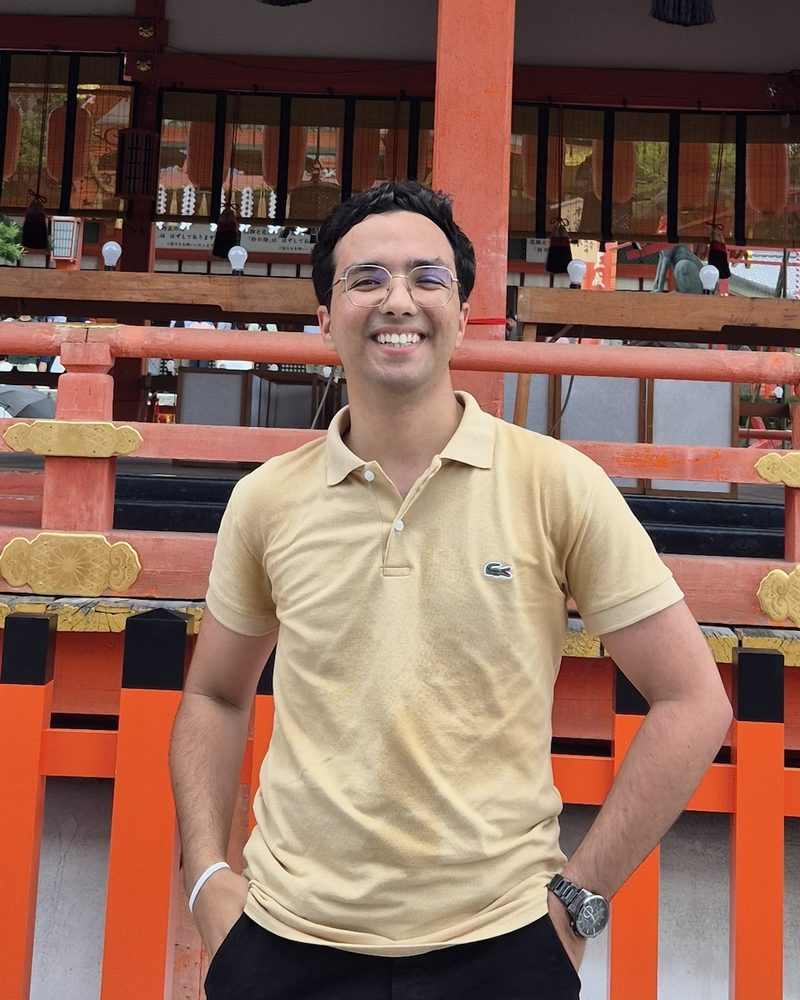
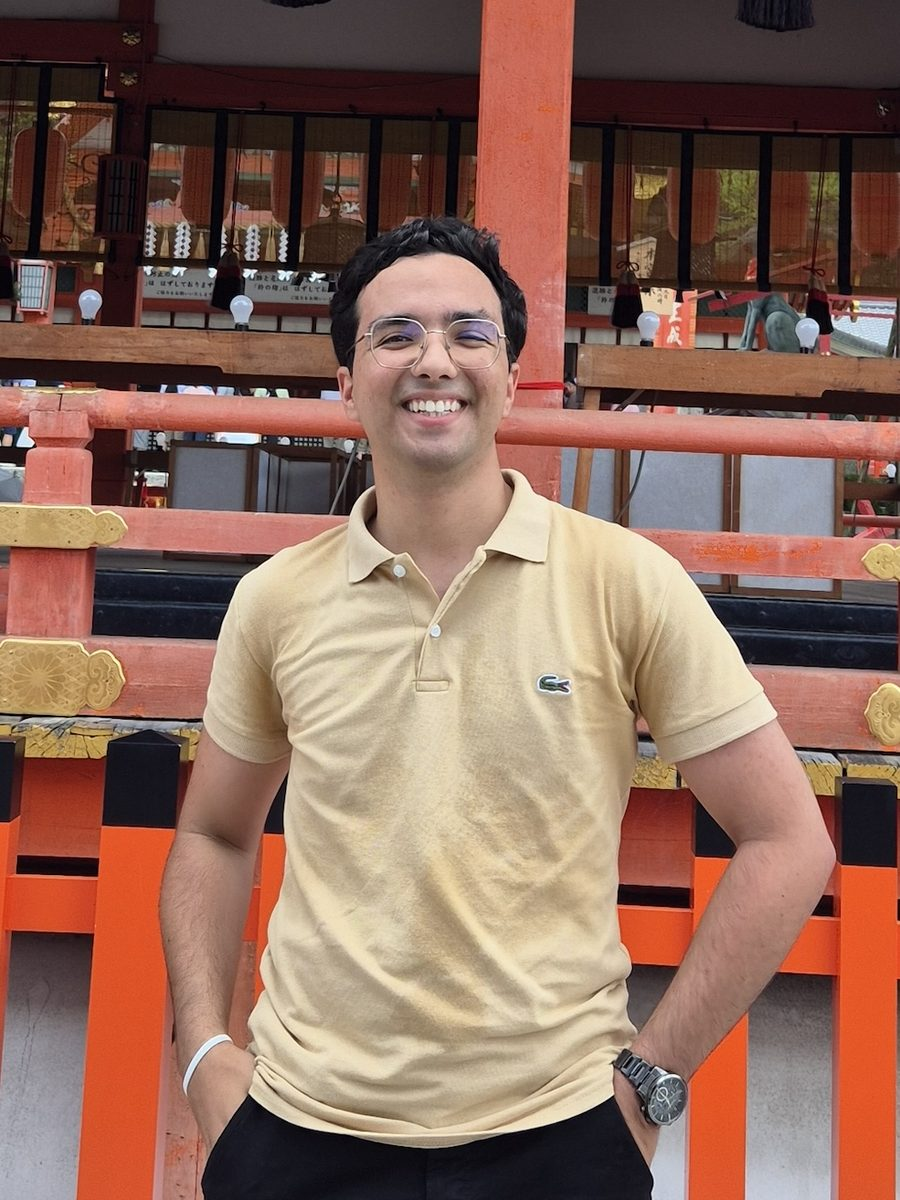
Restyle portrait, add interests ticker, update pitch roles
Portrait gets an arch frame, offset outline, rotating badge and pointer
tilt, in color. Ticker now lists interests. Pitch cards state each role,
major reads Astrophysics, LinkedIn filled in. Fix the cursor picking up
card styles on hover by renaming its state classes.

Claude-Session: https://claude.ai/code/session_01HdyVoENXhRtyn1pYEz9Wqw

diff --git a/index.html b/index.html
@@ -4,11 +4,11 @@
 <meta charset="utf-8">
 <meta name="viewport" content="width=device-width, initial-scale=1">
 <title>Ahmed Turki</title>
-<meta name="description" content="Ahmed Turki, University of Pennsylvania '29, Mathematical Economics and Physics. Stock pitches and physics research.">
+<meta name="description" content="Ahmed Turki, University of Pennsylvania '29, Mathematical Economics and Astrophysics. Stock pitches and astrophysics research.">
 <meta name="theme-color" content="#0C0D0F">
 <meta property="og:type" content="website">
 <meta property="og:title" content="Ahmed Turki">
-<meta property="og:description" content="University of Pennsylvania '29, Mathematical Economics and Physics. Stock pitches and physics research.">
+<meta property="og:description" content="University of Pennsylvania '29, Mathematical Economics and Astrophysics. Stock pitches and astrophysics research.">
 <meta name="twitter:card" content="summary">
 <link rel="icon" href="assets/favicon.svg" type="image/svg+xml">
 <link rel="preconnect" href="https://fonts.googleapis.com">
@@ -86,22 +86,45 @@ a:focus-visible { outline: 2px solid var(--accent); outline-offset: 3px; border-
 .hero h1 .ch { display: inline-block; transform: translateY(110%); }
 .ready .hero h1 .ch { transform: none; transition: transform 1.1s var(--ease); transition-delay: calc(var(--i) * 40ms); }
 
-/* portrait */
+/* portrait: arch frame, offset outline, rotating badge, pointer tilt */
 .portrait {
-  grid-column: 2; grid-row: 1; align-self: end;
-  width: clamp(180px, 22vw, 320px); aspect-ratio: 4 / 5;
-  margin: 0; position: relative; overflow: hidden; border-radius: 4px;
+  grid-column: 2; grid-row: 1; align-self: end; justify-self: end;
+  width: clamp(200px, 25vw, 360px); aspect-ratio: 3 / 4;
+  margin: 0 14px 14px 0; position: relative;
+  perspective: 900px;
+  clip-path: inset(100% -40% -40% -40%);
+}
+.ready .portrait { clip-path: inset(-40% -40% -40% -40%); transition: clip-path 1.4s var(--ease) .35s; }
+.portrait .frame {
+  position: absolute; inset: 0; border-radius: 999px 999px 10px 10px; overflow: hidden;
   background: #16181B;
-  clip-path: inset(100% 0 0 0);
+  transform: rotateX(var(--rx, 0deg)) rotateY(var(--ry, 0deg));
+  transition: transform .6s var(--ease);
+  box-shadow: 0 30px 80px -30px rgba(0,0,0,.8);
 }
-.ready .portrait { clip-path: inset(0 0 0 0); transition: clip-path 1.3s var(--ease) .35s; }
-.portrait img { position: absolute; inset: 0; width: 100%; height: 100%; object-fit: cover; filter: grayscale(1) contrast(1.05); transition: filter .8s var(--ease), transform 1.2s var(--ease); transform: scale(1.04); }
-.portrait:hover img { filter: grayscale(0); transform: scale(1); }
-.portrait .empty {
-  position: absolute; inset: 0; display: grid; place-items: center; text-align: center;
-  font: 400 12px/1.5 var(--mono); color: var(--ph); letter-spacing: .04em;
-  border: 1px dashed #4A3F1E; border-radius: 4px;
+.portrait::before {
+  content: ""; position: absolute; inset: 0; border-radius: 999px 999px 10px 10px;
+  border: 1px solid var(--accent); opacity: .55;
+  transform: translate(14px, 14px); transition: transform .8s var(--ease), opacity .4s;
 }
+.portrait:hover::before { transform: translate(20px, 20px); opacity: .9; }
+.portrait img {
+  position: absolute; inset: 0; width: 100%; height: 100%; object-fit: cover; object-position: 50% 30%;
+  filter: saturate(.9) contrast(1.04); transform: scale(1.06);
+  transition: transform 1.4s var(--ease), filter .8s var(--ease);
+}
+.portrait:hover img { transform: scale(1.0); filter: saturate(1.05) contrast(1.04); }
+/* soft warm vignette so the photo sits in the dark page */
+.portrait .frame::after { content: ""; position: absolute; inset: 0; background: radial-gradient(120% 90% at 50% 30%, rgba(0,0,0,0) 55%, rgba(12,13,15,.55) 100%); pointer-events: none; }
+.badge {
+  position: absolute; left: -46px; bottom: 22px; width: 112px; height: 112px; z-index: 2;
+  color: var(--ink); pointer-events: none;
+}
+.badge svg { width: 100%; height: 100%; animation: spin 22s linear infinite; }
+.badge text { font: 500 8.4px var(--mono); letter-spacing: .12em; text-transform: uppercase; fill: currentColor; }
+.badge::after { content: ""; position: absolute; left: 50%; top: 50%; width: 12px; height: 12px; margin: -6px 0 0 -6px; background: var(--accent); border-radius: 50%; box-shadow: 0 0 18px var(--accent); }
+.badge .disc { position: absolute; inset: 0; border-radius: 50%; background: rgba(12,13,15,.72); backdrop-filter: blur(6px); z-index: -1; border: 1px solid var(--rule); }
+@keyframes spin { to { transform: rotate(360deg); } }
 
 .hero-foot {
   grid-column: 1 / 3;
@@ -124,6 +147,10 @@ a:focus-visible { outline: 2px solid var(--accent); outline-offset: 3px; border-
 .marquee span { font: 500 13px/1 var(--mono); letter-spacing: .06em; text-transform: uppercase; color: var(--ink-2); padding-right: 48px; white-space: nowrap; }
 .marquee b { color: var(--ink); font-weight: 500; }
 .marquee .dot { color: var(--accent); font-style: normal; }
+.marquee { display: flex; align-items: center; }
+.marquee .track { flex: none; }
+.marquee .mq-k { flex: none; position: relative; z-index: 1; align-self: stretch; display: flex; align-items: center; padding: 0 22px 0 var(--pad); margin: -14px 0; background: var(--bg); border-right: 1px solid var(--rule); color: var(--accent); font: 500 11px/1 var(--mono); letter-spacing: .1em; text-transform: uppercase; box-shadow: 24px 0 24px -8px var(--bg); }
+.marquee .track span { color: var(--ink); }
 @keyframes slide { to { transform: translateX(-50%); } }
 
 /* ---------- sections ---------- */
@@ -228,11 +255,11 @@ footer .btn { background: transparent; border-color: var(--rule); }
 .js .rv.in { opacity: 1; transform: none; }
 
 /* ---------- cursor ---------- */
-.cursor { position: fixed; left: 0; top: 0; z-index: 60; pointer-events: none; width: 0; height: 0; mix-blend-mode: difference; opacity: 0; transition: opacity .3s; }
-.cursor i { position: absolute; left: 0; top: 0; width: 10px; height: 10px; margin: -5px 0 0 -5px; border-radius: 50%; background: #fff; transition: width .35s var(--ease), height .35s var(--ease), margin .35s var(--ease); }
+.cursor { position: fixed; left: 0; top: 0; z-index: 60; pointer-events: none; width: 0; height: 0; opacity: 0; transition: opacity .3s; }
+.cursor i { position: absolute; left: 0; top: 0; width: 10px; height: 10px; margin: -5px 0 0 -5px; border-radius: 50%; background: var(--accent); box-shadow: 0 0 0 1px rgba(12,13,15,.35); transition: width .35s var(--ease), height .35s var(--ease), margin .35s var(--ease), background .35s; }
 .cursor.on { opacity: 1; }
-.cursor.link i { width: 36px; height: 36px; margin: -18px 0 0 -18px; }
-.cursor.card i { width: 22px; height: 22px; margin: -11px 0 0 -11px; }
+.cursor.is-link i { width: 40px; height: 40px; margin: -20px 0 0 -20px; background: rgba(217,255,91,.18); box-shadow: inset 0 0 0 1.5px var(--accent); }
+.cursor.is-card i { width: 16px; height: 16px; margin: -8px 0 0 -8px; }
 @media (hover: none), (pointer: coarse) { .cursor { display: none; } }
 
 /* ---------- responsive ---------- */
@@ -242,7 +269,8 @@ footer .btn { background: transparent; border-color: var(--rule); }
 }
 @media (max-width: 700px) {
   .hero { grid-template-columns: 1fr; grid-template-rows: auto auto auto; align-content: end; }
-  .portrait { grid-column: 1; grid-row: 1; width: 46vw; max-width: 220px; margin-bottom: 28px; }
+  .portrait { grid-column: 1; grid-row: 1; justify-self: start; width: 52vw; max-width: 240px; margin: 0 0 36px 46px; }
+  .badge { width: 88px; height: 88px; left: -44px; bottom: 14px; }
   .hero h1 { grid-row: 2; }
   .hero-foot { grid-column: 1; }
   .scroll-cue { display: none; }
@@ -264,6 +292,7 @@ footer .btn { background: transparent; border-color: var(--rule); }
   *, *::before, *::after { animation: none !important; transition: none !important; }
   .hero h1 .ch { transform: none; }
   .portrait { clip-path: none; }
+  .badge svg { animation: none; }
   .hero-foot, .js .rv { opacity: 1; transform: none; }
 }
 
@@ -274,6 +303,7 @@ footer .btn { background: transparent; border-color: var(--rule); }
   .hero h1 { font-size: 56px; }
   .hero h1 .ch, .hero-foot, .js .rv { transform: none !important; opacity: 1 !important; }
   .portrait { clip-path: none !important; }
+  .badge, .portrait::before { display: none; }
   .card { aspect-ratio: auto !important; border: 1px solid #bbb; color: #000; background: #fff !important; break-inside: avoid; }
   .card::before { display: none; }
   .card .top, .card .tk, .card .sub, .btn { color: #000; }
@@ -308,26 +338,46 @@ footer .btn { background: transparent; border-color: var(--rule); }
       <span class="line" aria-hidden="true" data-split>Turki</span>
     </h1>
     <figure class="portrait">
-      <img src="assets/photo.jpg" alt="Ahmed Turki" width="800" height="1000">
+      <div class="frame"><img src="assets/photo.jpg" alt="Ahmed Turki" width="900" height="1200"></div>
+      <div class="badge" aria-hidden="true">
+        <span class="disc"></span>
+        <svg viewBox="0 0 100 100"><defs><path id="circ" d="M50,50 m-38,0 a38,38 0 1,1 76,0 a38,38 0 1,1 -76,0"/></defs>
+          <text><textPath href="#circ" textLength="236" lengthAdjust="spacing">Penn '29 · Astrophysics · Math Econ · </textPath></text></svg>
+      </div>
     </figure>
     <div class="hero-foot">
-      <p><span class="k">Education</span>University of Pennsylvania '29<br>Mathematical Economics and Physics</p>
+      <p><span class="k">Education</span>University of Pennsylvania '29<br>Mathematical Economics and Astrophysics</p>
       <div class="scroll-cue" aria-hidden="true">Scroll<i></i></div>
     </div>
   </section>
 
-  <div class="marquee" aria-hidden="true">
+  <div class="marquee" aria-label="Interests: tennis, camping, traveling, philosophy">
+    <span class="mq-k">Off the clock</span>
     <div class="track">
-      <span><b>Mathematical Economics</b> <i class="dot">●</i></span>
-      <span><b>Physics</b> <i class="dot">●</i></span>
-      <span>Stock pitches <i class="dot">●</i></span>
-      <span>Research <i class="dot">●</i></span>
-      <span><b>Penn '29</b> <i class="dot">●</i></span>
-      <span><b>Mathematical Economics</b> <i class="dot">●</i></span>
-      <span><b>Physics</b> <i class="dot">●</i></span>
-      <span>Stock pitches <i class="dot">●</i></span>
-      <span>Research <i class="dot">●</i></span>
-      <span><b>Penn '29</b> <i class="dot">●</i></span>
+      <span>Tennis <i class="dot">●</i></span>
+      <span>Camping <i class="dot">●</i></span>
+      <span>Traveling <i class="dot">●</i></span>
+      <span>Philosophy <i class="dot">●</i></span>
+      <span>Tennis <i class="dot">●</i></span>
+      <span>Camping <i class="dot">●</i></span>
+      <span>Traveling <i class="dot">●</i></span>
+      <span>Philosophy <i class="dot">●</i></span>
+      <span>Tennis <i class="dot">●</i></span>
+      <span>Camping <i class="dot">●</i></span>
+      <span>Traveling <i class="dot">●</i></span>
+      <span>Philosophy <i class="dot">●</i></span>
+      <span>Tennis <i class="dot">●</i></span>
+      <span>Camping <i class="dot">●</i></span>
+      <span>Traveling <i class="dot">●</i></span>
+      <span>Philosophy <i class="dot">●</i></span>
+      <span>Tennis <i class="dot">●</i></span>
+      <span>Camping <i class="dot">●</i></span>
+      <span>Traveling <i class="dot">●</i></span>
+      <span>Philosophy <i class="dot">●</i></span>
+      <span>Tennis <i class="dot">●</i></span>
+      <span>Camping <i class="dot">●</i></span>
+      <span>Traveling <i class="dot">●</i></span>
+      <span>Philosophy <i class="dot">●</i></span>
     </div>
   </div>
 
@@ -346,7 +396,7 @@ footer .btn { background: transparent; border-color: var(--rule); }
         <div>
           <p class="tk">NASDAQ: CPRT</p>
           <h3>Copart, Inc.</h3>
-          <p class="sub">Team pitch, Citadel stock pitch competition. I built the valuation model.</p>
+          <p class="sub">Team pitch, Citadel stock pitch competition. I co-built the valuation model and wrote the first thesis.</p>
           <ul class="links">
             <li><a class="btn solid" href="assets/CPRT_Memo.pdf" target="_blank" rel="noopener">Memo <span class="ft">PDF</span><svg aria-hidden="true"><use href="#i-ext"/></svg></a></li>
           </ul>
@@ -359,6 +409,7 @@ footer .btn { background: transparent; border-color: var(--rule); }
         <div>
           <p class="tk">NASDAQ: FTAI</p>
           <h3>FTAI Aviation Ltd.</h3>
+          <p class="sub">Team pitch. I built the model and led the industry and business research.</p>
           <ul class="links">
             <li><a class="btn solid" href="assets/FTAI_Memo.pdf" target="_blank" rel="noopener">Memo <span class="ft">PDF</span><svg aria-hidden="true"><use href="#i-ext"/></svg></a></li>
           </ul>
@@ -371,6 +422,7 @@ footer .btn { background: transparent; border-color: var(--rule); }
         <div>
           <p class="tk">TSE: 3436</p>
           <h3>SUMCO Corporation</h3>
+          <p class="sub">Solo pitch.</p>
           <!-- When the SUMCO memo is uploaded as assets/SUMCO_Memo.pdf, uncomment this:
           <ul class="links">
             <li><a class="btn solid" href="assets/SUMCO_Memo.pdf" target="_blank" rel="noopener">Memo <span class="ft">PDF</span><svg aria-hidden="true"><use href="#i-ext"/></svg></a></li>
@@ -385,7 +437,7 @@ footer .btn { background: transparent; border-color: var(--rule); }
   <!-- ===================== RESEARCH ===================== -->
   <section id="research" aria-labelledby="research-h">
     <div class="sec-head rv">
-      <h2 id="research-h">Physics <em>research</em></h2>
+      <h2 id="research-h">Astrophysics <em>research</em></h2>
       <span class="count">(01)</span>
     </div>
 
@@ -425,7 +477,7 @@ footer .btn { background: transparent; border-color: var(--rule); }
 <footer id="contact">
   <a class="cta rv" href="mailto:[EMAIL]"><span>Get in</span> <span>touch</span> <span class="arw" aria-hidden="true">→</span></a>
   <div class="f-links rv">
-    <a class="btn" href="[LINKEDIN_URL]" target="_blank" rel="noopener">LinkedIn <svg aria-hidden="true"><use href="#i-ext"/></svg></a>
+    <a class="btn" href="https://www.linkedin.com/in/a-turki/" target="_blank" rel="noopener">LinkedIn <svg aria-hidden="true"><use href="#i-ext"/></svg></a>
     <a class="btn" href="https://github.com/ahturki" target="_blank" rel="noopener">GitHub <svg aria-hidden="true"><use href="#i-ext"/></svg></a>
     <a class="btn" href="assets/Ahmed_Turki_Resume.pdf" target="_blank" rel="noopener">Resume <span class="ft">PDF</span><svg aria-hidden="true"><use href="#i-ext"/></svg></a>
   </div>
@@ -460,6 +512,13 @@ footer .btn { background: transparent; border-color: var(--rule); }
 
   // Custom cursor, fine pointers only
   if (reduce || !matchMedia('(hover: hover) and (pointer: fine)').matches) return;
+  const por = document.querySelector('.portrait'), frame = por.querySelector('.frame');
+  por.addEventListener('mousemove', e => {
+    const r = por.getBoundingClientRect();
+    frame.style.setProperty('--ry', ((e.clientX - r.left) / r.width - .5) * 10 + 'deg');
+    frame.style.setProperty('--rx', ((e.clientY - r.top) / r.height - .5) * -10 + 'deg');
+  });
+  por.addEventListener('mouseleave', () => { frame.style.setProperty('--rx', '0deg'); frame.style.setProperty('--ry', '0deg'); });
   const cur = document.querySelector('.cursor');
   let x = -100, y = -100, cx = x, cy = y;
   addEventListener('mousemove', e => { x = e.clientX; y = e.clientY; cur.classList.add('on'); });
@@ -470,9 +529,9 @@ footer .btn { background: transparent; border-color: var(--rule); }
     requestAnimationFrame(loop);
   })();
   document.addEventListener('mouseover', e => {
-    cur.classList.remove('link', 'card');
-    if (e.target.closest('a')) cur.classList.add('link');
-    else if (e.target.closest('.card')) cur.classList.add('card');
+    cur.classList.remove('is-link', 'is-card');
+    if (e.target.closest('a')) cur.classList.add('is-link');
+    else if (e.target.closest('.card')) cur.classList.add('is-card');
   });
 })();
 </script>

diff --git a/README.md b/README.md
@@ -22,7 +22,7 @@ Everything lives in `assets/`. Paths are case-sensitive on GitHub Pages.
 ## Still to fill in
 
 ```
-grep -n '\[EMAIL\]\|\[LINKEDIN_URL\]' index.html
+grep -n '\[EMAIL\]' index.html
 ```
 
 ## Deploy
